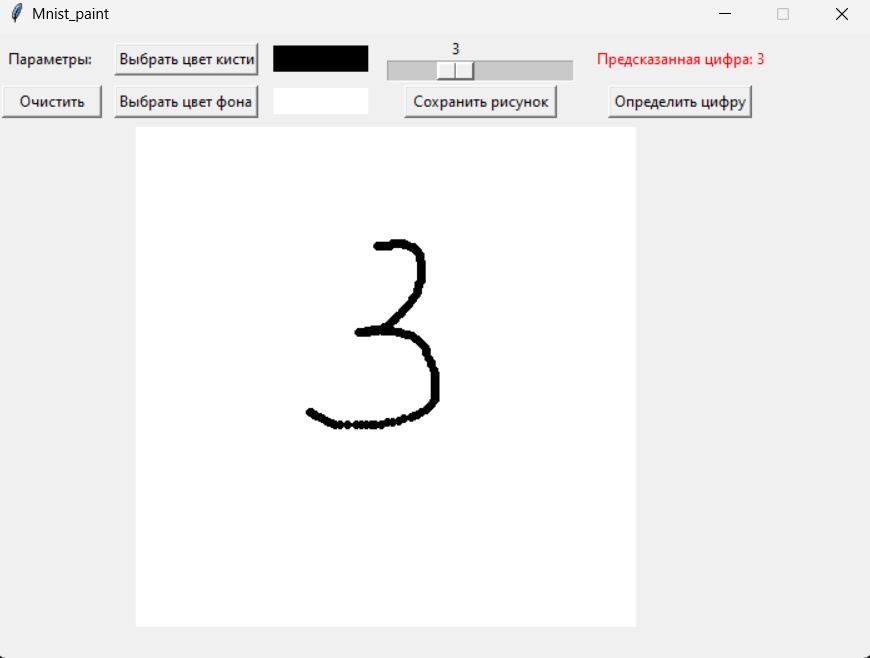
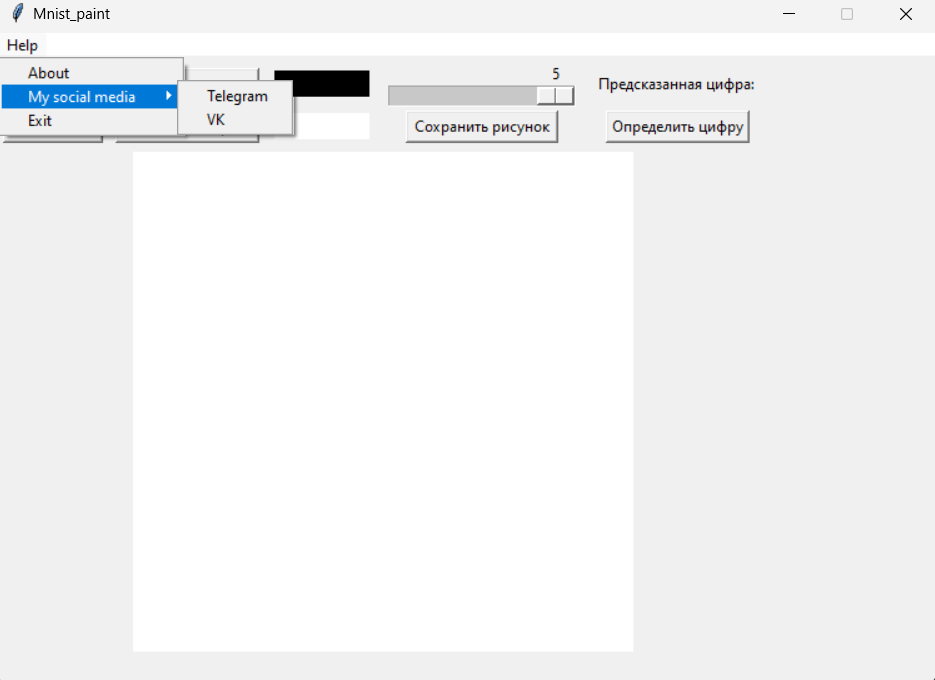
Add menu + probability

diff --git a/paint.py b/paint.py
@@ -1,6 +1,6 @@
 from tkinter import colorchooser, messagebox
 import tkinter as tk
-from PIL import Image, ImageDraw
+from PIL import Image, ImageDraw, ImageTk
 from random import randint
 from tensorflow.keras.models import load_model
 import numpy as np
@@ -8,14 +8,16 @@ import cv2
 import os
 import math
 from scipy.ndimage.measurements import center_of_mass
+import webbrowser
 
 
 class DrawingApp:
     def __init__(self, root):
         self.root = root
         self.root.title('Mnist_paint')
-        self.root.geometry('700x500')
+        self.root.geometry('750x500')
         self.root.resizable(0, 0)
+        root.option_add("*tearOff", False)
 
         self.brush_size = tk.IntVar(value=10)
         self.color = tk.StringVar(value='black')
@@ -26,7 +28,23 @@ class DrawingApp:
         self.canvas.bind('<B1-Motion>', self.draw)
         self.canvas.bind('<Button-3>', self.popup)
 
-        self.menu = tk.Menu(tearoff=0)
+        self.menu = tk.Menu()
+        self.help_menu = tk.Menu(self.menu)
+        self.menu.add_cascade(label='Help', menu=self.help_menu)
+
+        self.about_menu = tk.Menu(self.help_menu)
+        self.help_menu.add_command(label='About', command=self.about)
+
+        self.social_menu = tk.Menu(self.help_menu)
+        self.help_menu.add_cascade(
+            label='My social media', menu=self.social_menu)
+
+        self.social_menu.add_command(
+            label='Telegram', command=lambda: self.social_media('Telegram'))
+        self.social_menu.add_command(
+            label='VK', command=lambda: self.social_media('VK'))
+
+        self.help_menu.add_command(label='Exit', command=self.root.quit)
 
         self.image1 = Image.new('RGB', (400, 400), 'white')
         self.draw_img = ImageDraw.Draw(self.image1)
@@ -77,6 +95,40 @@ class DrawingApp:
         x2, y2 = (event.x + brush_size), (event.y + brush_size)
         self.canvas.create_oval(x1, y1, x2, y2, fill=self.color.get(), width=0)
         self.draw_img.ellipse((x1, y1, x2, y2), fill=self.color.get(), width=0)
+
+    def about(self):
+        about_window = tk.Toplevel(self.root)
+        about_window.title("About")
+        about_window.geometry("400x300")
+
+        label_info = tk.Label(
+            about_window, text="Author: Alibekov A.A.\nVersion: 1.0")
+        label_info.pack(pady=10)
+
+        image_path = "mnist-examples.png"
+        if os.path.exists(image_path):
+            image = Image.open(image_path)
+            image = image.resize((300, 200), Image.LANCZOS)
+            photo = ImageTk.PhotoImage(image)
+            label_image = tk.Label(about_window, image=photo)
+            label_image.image = photo
+            label_image.pack(pady=10)
+        else:
+            label_image = tk.Label(about_window, text="Image not found")
+            label_image.pack(pady=10)
+
+        button_close = tk.Button(
+            about_window, text="Закрыть", command=about_window.destroy)
+        button_close.pack(pady=10)
+
+    def social_media(self, platform):
+        if platform == 'Telegram':
+            webbrowser.open('https://t.me/alibekov_05')
+        elif platform == 'VK':
+            webbrowser.open('https://vk.com/alibekov_05')
+        else:
+            messagebox.showerror(
+                "Ошибка", f"Ошибка при определение платформы {platform}")
 
     def choose_color(self):
         (rbx, hx) = colorchooser.askcolor()
@@ -147,21 +199,24 @@ class DrawingApp:
             cv2.imwrite('temp_gray.png', gray)
             img = gray / 255.0
             img = np.array(img).reshape(-1, 28, 28, 1)
-            out = str(np.argmax(self.model.predict(img)))
+            probabilities = self.model.predict(img)
+            max_index = np.argmax(probabilities)
             os.remove('temp_gray.png')
-            return out
+            return str(max_index), max(probabilities)
         except Exception as e:
             messagebox.showerror(
                 "Ошибка", f"Ошибка при определении цифры: {e}")
-            return None
+            return None, None
 
     def predict_digit(self):
         filename = 'temp_image.png'
         self.image1.save(filename)
-        predicted_digit = self.rec_digit(filename)
+        predicted_digit, max_probability = self.rec_digit(filename)
         if predicted_digit is not None:
+            max_index = np.argmax(max_probability)
+            max_probability = max_probability[max_index]
             self.prediction_label.config(
-                text=f"Предсказанная цифра: {predicted_digit}", fg="red")
+                text=f"Предсказанная цифра: {predicted_digit}, Вероятность: {max_probability:.2f}", fg="red")
         os.remove(filename)
 
     def clear_canvas(self):
@@ -184,4 +239,5 @@ class DrawingApp:
 
 root = tk.Tk()
 app = DrawingApp(root)
+root.config(menu=app.menu)
 root.mainloop()
